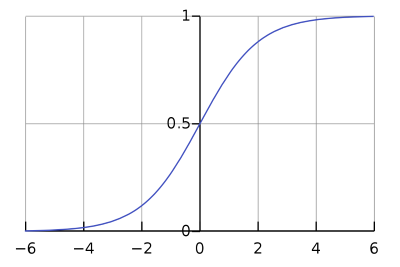
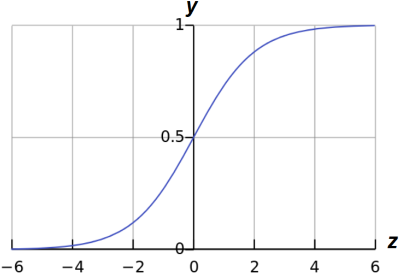
Taking notes

Changed region(s): [[0.0, 0.0, 1.0, 0.9888], [0.54, 0.2996, 0.57, 0.3596], [0.39, 0.6592, 0.42, 0.7191]]

diff --git a/notes/4.0-logistic-regrsssion.md b/notes/4.0-logistic-regrsssion.md
@@ -1,6 +1,6 @@
 # Logistic Regression
 
-Two types of *Logistic Regression* or *classification*: *Binary* and *Multi Class*. Even though Logic Regression has the word "Regression" in the name, it is used to solve classification problems that are more complex and non-linear in nature. For example, the below data plot shows features that cannot be fit using a linear model.
+Two types of *Logistic Regression* or *classification*: *Binary* and *Multi Class*. Even though Logistic Regression has the word "Regression" in the name, it is used to solve classification problems that are more complex and non-linear in nature. For example, the below data plot shows features that cannot be fit using a linear model.
 
 ![Logistic Regression](../images/logistic-regression.png)
 
@@ -14,13 +14,13 @@ Given the email example, $y=0$ would mean no spam where as $y=1$ would mean the 
 
 > $0\le h_\theta(x)\le1$
 
-For example:
+We predict a $y$ value of $0$ or $1$ by using the *threshold* of $0.50$ which is halfway between $0$ and $1$:
 
 > If $h_\theta(x)\ge  0.50$; Then predict $y=1$
 >
 > If $h_\theta(x)\lt  0.50$; Then predict $y=0$
 
-To make predictions in this range we will need to use the *Sigmoid* function, also called the *Logistic* function.  Recall the hypothesis function for liner regression:
+To get our hypothesis function to scale and make predictions in this range we will need to use the *Sigmoid* function, also called the *Logistic Function*.  Recall the hypothesis function for liner regression:
 
 > $h_\theta(x)= \theta^Tx$
 
@@ -28,9 +28,9 @@ The *Sigmoid* Function, $g$, takes our hypothesis, $z$, as a parameter and retur
 
 > $z = h_\theta(x) \therefore g(z) = \frac{1}{1+e^-z}$
 
-Our hypothesis prediction, $z$, controls the steepness of the Sigmoid curve. And the numerator, $1$ in this case, is the curves maximum value. The natural logarithm is denoted by $e$ which is a constant value of $2.718$.
+This will effectively scale our hypothesis prediction, $z$, to a value between $0$ and $1$. Our hypothesis prediction, $z$, controls the steepness of the Sigmoid curve. And the numerator, $1$ in this case, is the curves maximum value. The natural logarithm is denoted by $e$ which is a constant value of $2.718$.
 
-Below shows a plot of the *Sigmoid* function that shows the *threshold* at $0.5$ which asymptotes at $1$ and $0$ with the $z$ axis on the horizontal:
+Below shows a plot of the *Sigmoid* function that shows the *threshold* at $0.5$ which asymptotes (continually approaches but does not meet) at $1$ and $0$ with the $z$ axis on the horizontal:
 
 ![Sigmoid Regression](../images/sigmoid-function.png)
 
@@ -39,6 +39,8 @@ It it worth noting that the prediction returned by the hypothesis function, deno
 > $h_\theta(x) \ge 0.5$ when $z \ge 0$
 >
 > $h_\theta(x) \lt 0.5$ when $z < 0$
+
+![Sigmoid Regression](../images/sigmoid-function-h.png)
 
 In interpreting the value returned by the *Sigmoid* function, if it returns $y = .70$ when we say there is a $70\%$ chance that $y=1$ and therefore, by deduction, a $30\%$ chance that $y=0$. In a more concrete example, if malignant tumor features  lie in the range *above* $0.5$:
 
@@ -60,11 +62,11 @@ Likewise, we can find the probability of $y$ being $0$ by subtracting the $y=1$ 
 
 ### Decision Boundary
 
-The *decision boundary* divides the plotted features from a data set. This boundary is used to determine regions that determine if $y=0$ or $y=1$. The decision boundary can be any equation, linear or non-linear, that best segments the data.
+The *decision boundary* divides the plotted features from a data set. This boundary is used to determine regions that determine when $y=0$ or $y=1$. The decision boundary can be any equation, linear or non-linear, that best segments the data. Below will outline how to find this boundary using the *Sigmoid Function*.
 
 ![Decision Boundary](../images/decision-boundary.png)
 
-For example if we have the following hypothesis function:
+For example, if we have the following hypothesis function:
 
 > $h_\theta(x)=\theta_0+\theta_1x_1+\theta_2x_2$
 
@@ -72,19 +74,19 @@ And our parameters are:
 
 > $\theta=\begin{bmatrix}-3\\1\\1\end{bmatrix}$
 
-Then our *Sigmoid* function is:
+Then our *Sigmoid Function* is:
 
-> $g(h_\theta(x))$ or $g(\theta_0+\theta_1x_1+\theta_2x_2)$
+> $g(h_\theta(x))$ or $g(-3+1x_1+1x_2)$
 
-And $y=1$ if $h_\theta(x)\ge0$:
+Therefore, $y=1$ if $h_\theta(x)\ge3$ and $y=0$ if $h_\theta(x)\lt3$:
 
 > $-3+x_1+x_2\ge0$
 
-Or, rewritten as:
+Or, rewritten as below where $3$ denotes our *decision boundary*:
 
 > $x_1 + x_2 \ge3$
 
-Plotting the line $x_1 + x_2=3$ results in the decision boundary graphed below where both the $x_1$ axis and $x_2$ axis are intercepted at $3$. Therefore, any value on the right side of the decision boundary, where $x_1 + x_2 \ge3$, yields a $y$ value of $1$. Conversely, $x_1 + x_2 \lt3$ will result in a $y$ value of $0$.
+Remember, that $\theta_0$ is our bias weight with a value of 1. So, we are basically saying that *our features lie beyond the boundary where $x_1$ or $x_2$ is 3*. Plotting the line $x_1 + x_2=3$ results in the decision boundary graphed below where both the $x_1$ axis and $x_2$ axis are intercepted at $3$. Therefore, any value on the right side of the decision boundary, where $x_1 + x_2 \ge3$, yields a $y$ value of $1$. Conversely, $x_1 + x_2 \lt3$ will result in a $y$ value of $0$.
 
 ![Decision Boundary Example](../images/decision-boundary-example.png)
 
